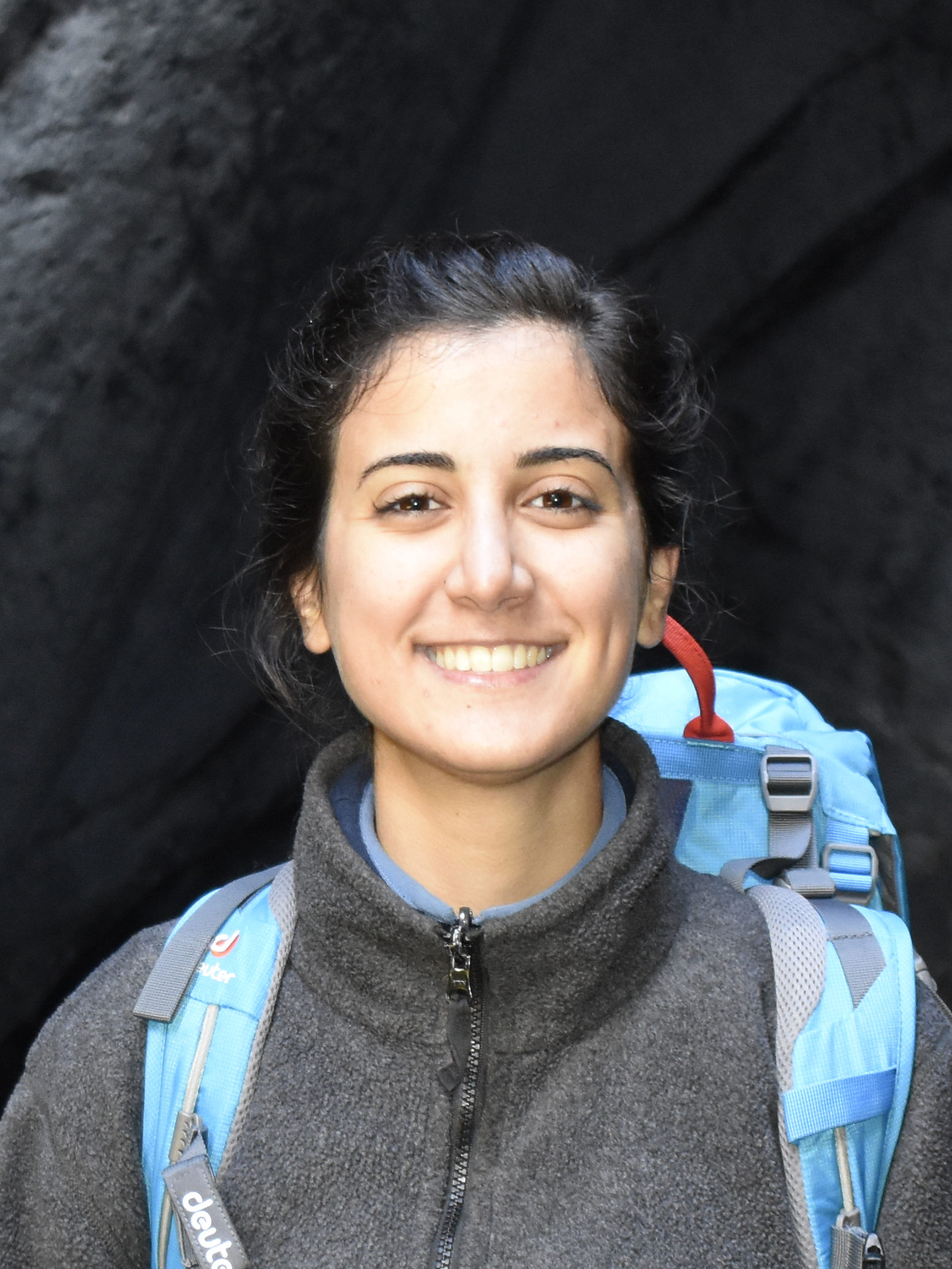
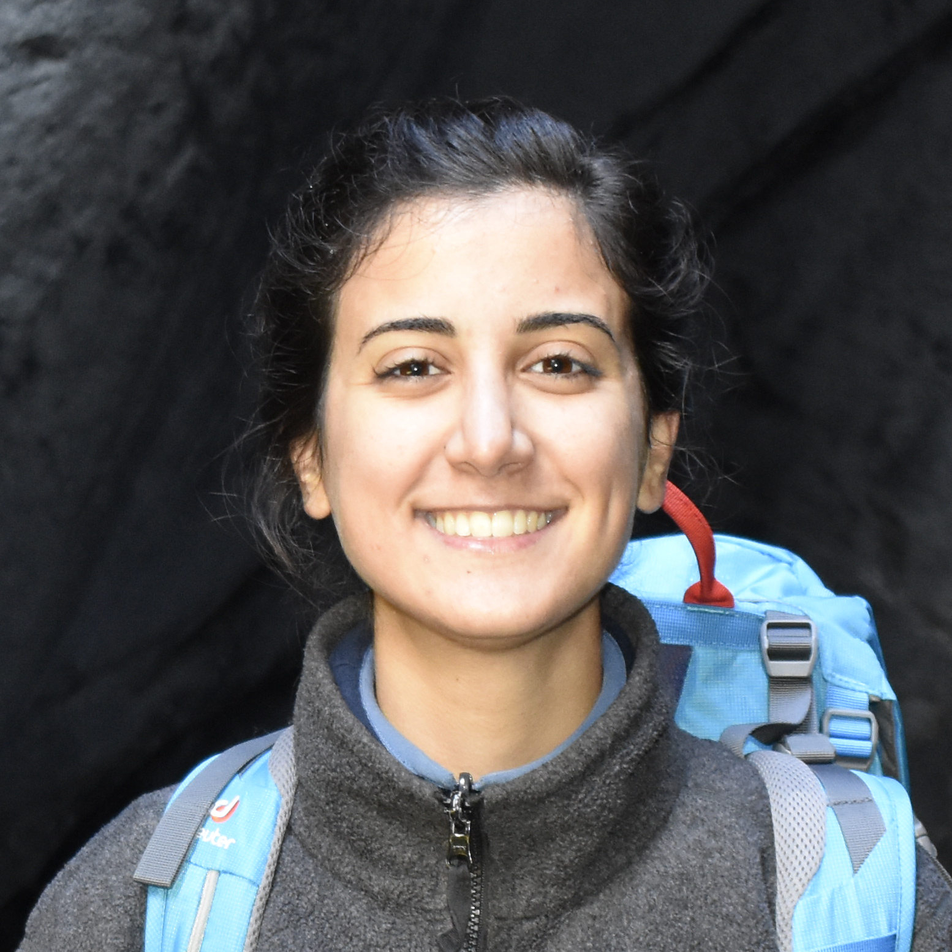
Changed team images and image layout.

diff --git a/_includes/2019_data/team.html b/_includes/2019_data/team.html
@@ -8,7 +8,7 @@
       <div class="col-12">
         <div class="row auto-clear">
           {% for member in site.data.twenty_19.teams_1 %}
-          <div class="col-lg-3 col-md-4 col-sm-6 speakers-item">
+          <div class="col-lg-3 col-md-3 col-sm-4 col-xs-6 speakers-item">
             <div class="card">
               <div class="card-body">
                 <img class="img-centered img-responsive img-modal-team" src="{{ member.thumbnail | prepend: "/../assets/2019_style/img/team/" | prepend: site.baseurl }}" alt="Image of {{ member.name }}">

diff --git a/_includes/2019_data/speakers.html b/_includes/2019_data/speakers.html
@@ -9,7 +9,7 @@
       <div class="col-12">
         <div class="row auto-clear">
           {% for post in site.data.twenty_19.speakers %}
-          <div class="col-lg-3 col-md-4 col-sm-6 speakers-item">
+          <div class="col-lg-3 col-md-3 col-sm-4 col-xs-6 speakers-item">
             <a href="#{{ post.id }}" class="speakers-link" data-toggle="modal">
               <div class="speakers-hover">
                 <div class="speakers-hover-content">
